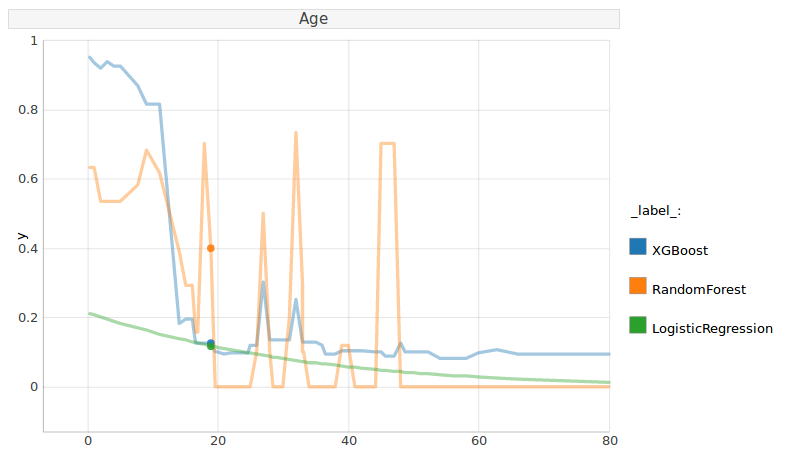
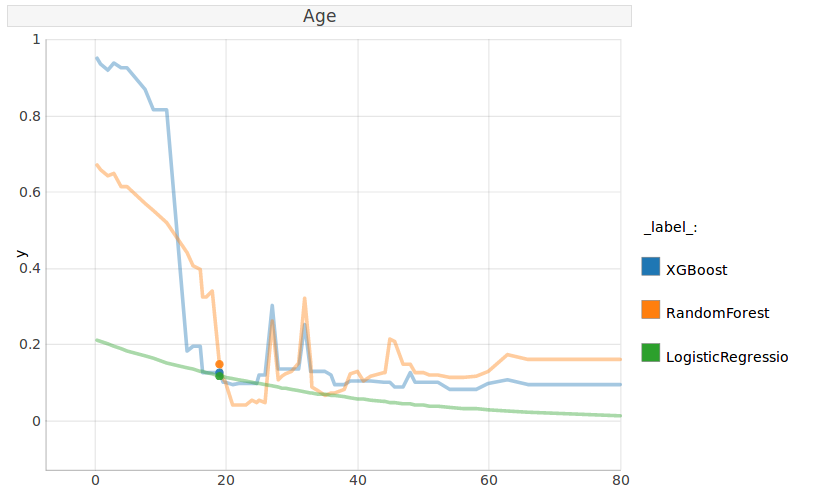
update readme

diff --git a/README.md b/README.md
@@ -52,7 +52,7 @@ make html
 and open `_build/html/index.html`
 
 ## Examples
-Below we present use cases on two well-known datasets - Titanic and Iris. More examples e.g. for regression problems might be found [here](examples).
+Below we present use cases on two well-known datasets - Titanic and Iris. More examples e.g. for regression problems might be found [here](examples) and in jupyter notebooks [here](jupyter-notebooks).
 
 ## Use case - Titanic survival
 We demonstrate Ceteris Paribus Plots using the well-known Titanic dataset. In this problem, we examine the chance of survival for Titanic passengers.
@@ -149,7 +149,8 @@ plot(cp_xgb, cp_rf, cp_linear, selected_variables=["Age"])
 
 ![Chance of survival for various models](misc/titanic_many_models.png)
 
-Clearly, XGBoost offers a better fit than Logistic Regression and is less overfitted than a Random Forest model.
+Clearly, XGBoost offers a better fit than Logistic Regression. 
+Also, it predicts a higher chance of survival at child's age than the Random Forest model does.
 
 ### Many variables
 This time we have a look at Miss. Elizabeth Mussey Eustis. She is 54 years old, travels at 1. class with her sister Marta, as they return to the US from their tour of southern Europe. They both survived the disaster.
@@ -196,7 +197,7 @@ Additionally, one can interact with the plot by hovering over a point of interes
 
 ### Multiclass models - Iris dataset
 Prepare dataset and model
-```
+```python
 iris = load_iris()
 
 def random_forest_classifier():
@@ -206,7 +207,7 @@ def random_forest_classifier():
 ```
 
 Wrap model into explainers
-```
+```python
 rf_model, iris_x, iris_y, iris_var_names = random_forest_classifier()
 
 explainer_rf1 = explain(rf_model, iris_var_names, iris_x, iris_y,
@@ -218,7 +219,7 @@ explainer_rf3 = explain(rf_model, iris_var_names, iris_x, iris_y,
 ```
 
 Calculate profiles and plot
-```
+```python
 cp_rf1 = individual_variable_profile(explainer_rf1, iris_x[0], iris_y[0])
 cp_rf2 = individual_variable_profile(explainer_rf2, iris_x[0], iris_y[0])
 cp_rf3 = individual_variable_profile(explainer_rf3, iris_x[0], iris_y[0])
